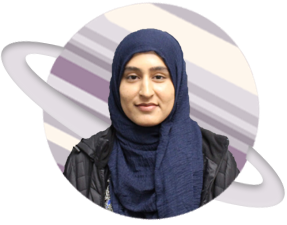
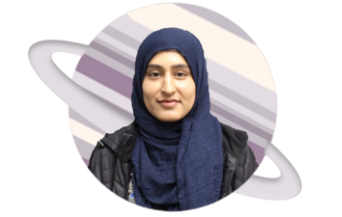
adjusted image dimensions for team

diff --git a/angular-website/src/app/components/team/team.component.html b/angular-website/src/app/components/team/team.component.html
@@ -4,63 +4,63 @@
     <div class="row row-flex">
       <div class="col-md-4 col-sm-6 col-xs-12">
         <div class="content colour-1">
-          <img src="/assets/images/Karen.png">
+          <img class="director-img" src="/assets/images/Karen.png">
           <h2>Karen Chen</h2>
           <h3>Founder/Co-President</h3>
         </div>
       </div>
       <div class="col-md-4 col-sm-6 col-xs-12">
         <div class="content colour-2">
-          <img src="/assets/images/Sadaf.png">
+          <img class="director-img" src="/assets/images/Sadaf.png">
           <h2>Sadaf Arshad</h2>
           <h3>Treasurer</h3>
         </div>
       </div>
       <div class="col-md-4 col-sm-6 col-xs-12">
         <div class="content colour-3">
-          <img src="/assets/images/Andrew.png">
+          <img class="director-img" src="/assets/images/Andrew.png">
           <h2>Andrew Tsung</h2>
           <h3>Community Relations Director</h3>
         </div>
       </div>
       <div class="col-md-4 col-sm-6 col-xs-12">
         <div class="content colour-4">
-          <img src="/assets/images/Isabel.png">
+          <img class="director-img" src="/assets/images/Isabel.png">
           <h2>Isabel Kalogiannis</h2>
           <h3>Marketing & Publicity Director</h3>
         </div>
       </div>
       <div class="col-md-4 col-sm-6 col-xs-12">
         <div class="content colour-5">
-          <img src="/assets/images/Jess.png">
+          <img class="director-img" src="/assets/images/Jess.png">
           <h2>Jess Nguyen</h2>
           <h3>Marketing & Publicity Director</h3>
         </div>
       </div>
       <div class="col-md-4 col-sm-6 col-xs-12">
         <div class="content colour-6">
-          <img src="/assets/images/Vivienne.png">
+          <img class="director-img" src="/assets/images/Vivienne.png">
           <h2>Vivienne Zing</h2>
           <h3>Design Chair</h3>
         </div>
       </div>
       <div class="col-md-4 col-sm-6 col-xs-12">
         <div class="content colour-4">
-          <img src="/assets/images/Jose.png">
+          <img class="director-img" src="/assets/images/Jose.png">
           <h2>Jose Alvarado</h2>
           <h3>Technology Chair</h3>
         </div>
       </div>
       <div class="col-md-4 col-sm-6 col-xs-12">
         <div class="content colour-5">
-          <img src="/assets/images/Hajra.png">
+          <img class="director-img" src="/assets/images/Hajra.png">
           <h2>Hajra Mobashar</h2>
           <h3>Technology Chair</h3>
         </div>
       </div>
       <div class="col-md-4 col-sm-6 col-xs-12">
         <div class="content colour-6">
-          <img src="/assets/images/Jingyi.png">
+          <img class="director-img" src="/assets/images/Jingyi.png">
           <h2>Jingyi Zhu</h2>
           <h3>Design Chair</h3>
         </div>

diff --git a/angular-website/src/app/components/team/team.component.scss b/angular-website/src/app/components/team/team.component.scss
@@ -20,6 +20,11 @@ h1 {
   flex-wrap: wrap;
 }
 
+.director-img {
+  height: 217px;
+  max-width: 358px;
+  padding-bottom: 10px;
+}
 
 /* vertical spacing between columns */
 
